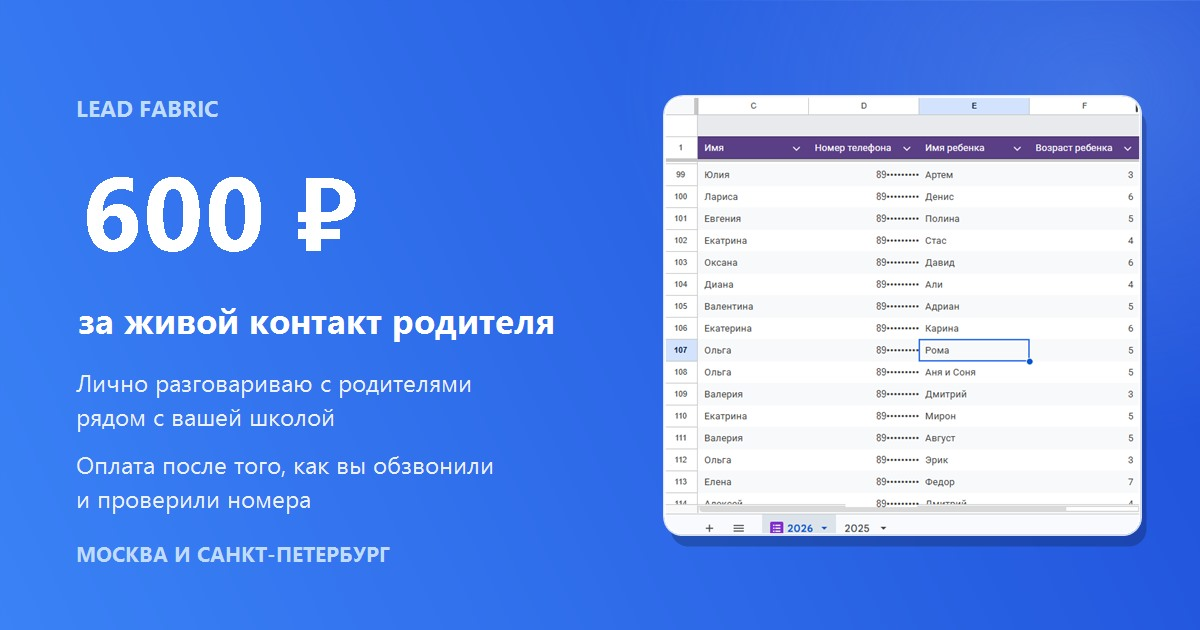
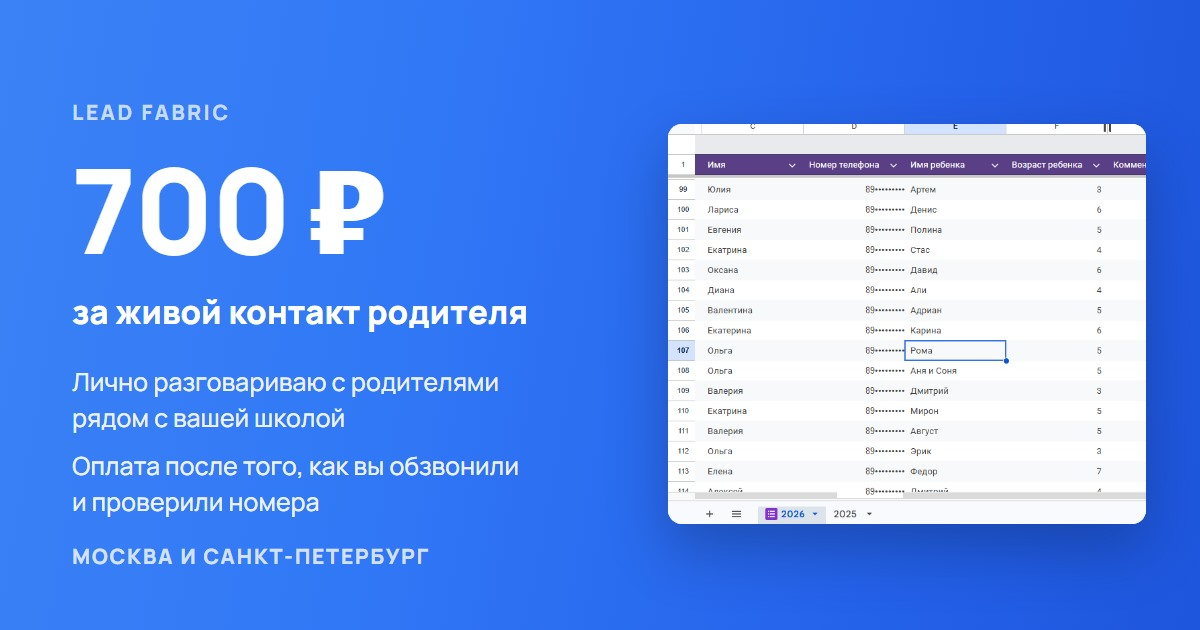
Цена 700 руб: карточка, калькулятор, мета-описания, микроразметка, FAQ от 50 контактов, новая карточка превью

diff --git a/index.html b/index.html
@@ -4,7 +4,7 @@
   <meta charset="UTF-8" />
   <meta name="viewport" content="width=device-width, initial-scale=1" />
   <title>Lead Fabric — стабильный поток новых учеников</title>
-  <meta name="description" content="Лично разговариваю с родителями рядом с вашей школой и передаю контакты тех, кому интересна запись. 600 ₽ за контакт, оплата после того, как вы обзвонили. Москва и Санкт-Петербург." />
+  <meta name="description" content="Лично разговариваю с родителями рядом с вашей школой и передаю контакты тех, кому интересна запись. 700 ₽ за контакт, оплата после того, как вы обзвонили. Москва и Санкт-Петербург." />
   <meta name="keywords" content="привлечение учеников, детская школа, секция, набор учеников, офлайн-маркетинг, Lead Fabric" />
 
   <meta property="og:type" content="website" />
@@ -13,16 +13,16 @@
   <!-- Ссылку чаще всего вставляют в переписку, поэтому карточка превью —
        это первое, что видит школа. Она несёт цену, условие оплаты и таблицу. -->
   <meta property="og:title" content="Контакты родителей из вашего района" />
-  <meta property="og:description" content="Лично разговариваю с родителями рядом с вашей школой и передаю контакты тех, кому интересна запись. 600 ₽ за контакт, оплата после того, как вы обзвонили. Москва и Санкт-Петербург." />
+  <meta property="og:description" content="Лично разговариваю с родителями рядом с вашей школой и передаю контакты тех, кому интересна запись. 700 ₽ за контакт, оплата после того, как вы обзвонили. Москва и Санкт-Петербург." />
   <meta property="og:image" content="https://lead-fabric.ru/assets/og-card.jpg" />
   <meta property="og:image:type" content="image/jpeg" />
   <meta property="og:image:width" content="1200" />
   <meta property="og:image:height" content="630" />
-  <meta property="og:image:alt" content="600 ₽ за живой контакт родителя. Оплата после проверки номеров" />
+  <meta property="og:image:alt" content="700 ₽ за живой контакт родителя. Оплата после проверки номеров" />
   <meta property="og:site_name" content="Lead Fabric" />
   <meta name="twitter:card" content="summary_large_image" />
   <meta name="twitter:title" content="Контакты родителей из вашего района" />
-  <meta name="twitter:description" content="600 ₽ за живой контакт родителя. Оплата после того, как вы обзвонили и проверили номера." />
+  <meta name="twitter:description" content="700 ₽ за живой контакт родителя. Оплата после того, как вы обзвонили и проверили номера." />
   <meta name="twitter:image" content="https://lead-fabric.ru/assets/og-card.jpg" />
 
   <link rel="canonical" href="https://lead-fabric.ru/" />
@@ -56,7 +56,7 @@
     "offers": {
       "@type": "Offer",
       "priceCurrency": "RUB",
-      "price": "600",
+      "price": "700",
       "description": "Оплата за один проверенный контакт родителя"
     }
   }
@@ -356,7 +356,7 @@
         <div class="price-shell">
           <div class="price-card reveal">
             <p class="price-eyebrow">Единая цена</p>
-            <div class="price-value">600 <span class="rub">₽</span></div>
+            <div class="price-value">700 <span class="rub">₽</span></div>
             <p class="price-desc">за один живой контакт родителя</p>
             <p class="price-note">Оплата после того, как вы начали обзвон и проверили номера. Предоплаты нет.</p>
             <ul class="price-checks">
@@ -365,7 +365,7 @@
               <li>Недействительные номера не считаю</li>
               <li>Собираю под вашу школу — эти контакты не уйдут другой</li>
             </ul>
-            <p class="price-start">Обычно начинают с пробной партии<br /><strong>50 контактов — 30 000 <span class="rub">₽</span></strong></p>
+            <p class="price-start">Обычно начинают с пробной партии<br /><strong>50 контактов — 35 000 <span class="rub">₽</span></strong></p>
           </div>
 
           <div class="price-asset reveal">
@@ -472,11 +472,11 @@
             </label>
             <label class="calc-field">
               <span>Цена за контакт, ₽</span>
-              <input type="number" id="calc-price" value="600" min="1" step="50" inputmode="numeric" />
+              <input type="number" id="calc-price" value="700" min="1" step="50" inputmode="numeric" />
             </label>
             <label class="calc-field">
               <span>Абонемент, ₽ в месяц</span>
-              <input type="number" id="calc-fee" value="5000" min="1" step="500" inputmode="numeric" />
+              <input type="number" id="calc-fee" value="6000" min="1" step="500" inputmode="numeric" />
             </label>
             <label class="calc-field">
               <span>Сколько месяцев ходит ученик</span>
@@ -486,11 +486,11 @@
 
           <div class="calc-out">
             <div class="calc-stat">
-              <span class="calc-value" id="calc-cost">30 000 <span class="rub">₽</span></span>
+              <span class="calc-value" id="calc-cost">35 000 <span class="rub">₽</span></span>
               <span class="calc-label">стоит вся партия</span>
             </div>
             <div class="calc-stat">
-              <span class="calc-value" id="calc-student">30 000 <span class="rub">₽</span></span>
+              <span class="calc-value" id="calc-student">36 000 <span class="rub">₽</span></span>
               <span class="calc-label">приносит один ученик</span>
             </div>
             <div class="calc-stat calc-stat--accent">
@@ -813,7 +813,7 @@
           </details>
           <details class="faq-item">
             <summary>Можно сначала небольшую партию?</summary>
-            <p>Да, так даже лучше. Минимум — 25 контактов: меньше не выхожу, дорога и время на выход не окупаются. Обычно берут 50 — это один мой выход. Партия по обычной цене, обзвон по инструкции, затем считаем: сколько дозвонились, сколько записались, сколько дошли. Дальше решаете по своим цифрам, а не по моим обещаниям.</p>
+            <p>Да, так даже лучше. Минимум — 50 контактов: это один мой рабочий выход. Меньше не берусь: день уходит целиком независимо от того, сколько контактов в нём собрано. Партия по обычной цене, обзвон по инструкции, затем считаем: сколько дозвонились, сколько записались, сколько дошли. Дальше решаете по своим цифрам, а не по моим обещаниям.</p>
           </details>
         </div>
       </div>

diff --git a/script.js b/script.js
@@ -326,8 +326,8 @@
 
     const recalc = () => {
       const contacts = read(inputs.contacts, 50);
-      const price = read(inputs.price, 600);
-      const fee = read(inputs.fee, 5000);
+      const price = read(inputs.price, 700);
+      const fee = read(inputs.fee, 6000);
       const months = read(inputs.months, 6);
 
       const batchCost = contacts * price;
